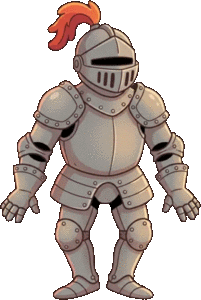
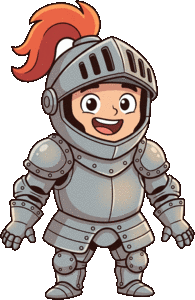
Chevaliers qui basculent dans les trous, nouveaux chevaliers à grosse tête, multi-touch
Claude-Session: https://claude.ai/code/session_01DKoyVzMQUoxeQY8Gx2oYmF

diff --git a/docs/index.html b/docs/index.html
@@ -89,6 +89,7 @@
   #hud button.tool { background: var(--panel-2); color: var(--fg); box-shadow: 0 3px 0 #1a1230; }
   #hud button.tool.on { background: var(--sky); color: #06243a; box-shadow: 0 3px 0 #2a7aa8; }
   #hud .spacer { flex: 1; }
+  #hud button { touch-action: none; }
   #btnOn { background: #4a4f56; color: #fff; box-shadow: 0 3px 0 #26292d; min-width: 120px; }
   #btnOn.on { background: #ffd24a; color: var(--accent-ink); box-shadow: 0 3px 0 #b57700; }
   #btnFilings.on { background: var(--sky); color: #06243a; }
@@ -509,7 +510,9 @@
         } else {
           b.vy += (G + ay) * dt;
           b.vx += ax * dt;
-          if (b.grounded) {
+          if (b.grounded && b.tip) {
+            b.vx += b.tip * 1400 * dt;                   // il bascule vers le vide
+          } else if (b.grounded) {
             const fr = Math.min(Math.abs(b.vx), 500 * dt);
             b.vx -= Math.sign(b.vx) * fr;
             if (Math.abs(ax) < 350 && Math.abs(b.vx) < 30) b.vx = 0;
@@ -671,6 +674,22 @@
         if (b.vy > 0) { b.y = s.y - b.h; b.grounded = true; if (!wasGrounded && vyBefore > 250) this.events.push({ type: 'land', id: b.id, v: vyBefore }); }
         else if (b.vy < 0) b.y = s.y + s.h;
         b.vy = 0;
+      }
+      // Bascule au bord d'un trou : si le centre n'est plus au-dessus d'un appui, le corps glisse et tombe
+      b.tip = 0; b.tilt = 0;
+      if (b.grounded) {
+        const bottom = b.y + b.h; let lo = Infinity, hi = -Infinity;
+        for (const s of this.solids) {
+          if (Math.abs(s.y - bottom) > 1.5) continue;
+          const a = Math.max(b.x, s.x), c = Math.min(b.x + b.w, s.x + s.w);
+          if (c > a) { lo = Math.min(lo, a); hi = Math.max(hi, c); }
+        }
+        const cx = b.x + b.w / 2, margin = b.w * 0.12;
+        if (lo < Infinity && (cx < lo + margin || cx > hi - margin)) {
+          b.tip = cx < lo + margin ? -1 : 1;
+          const over = b.tip > 0 ? cx - (hi - margin) : (lo + margin) - cx;
+          b.tilt = b.tip * Math.min(0.6, 0.15 + over / b.w);
+        }
       }
       // sol de secours
       if (b.y + b.h > H + 300) { b.hidden = true; }
@@ -1244,7 +1263,7 @@
   function initTitle() {
     $('#intro').innerHTML = INTRO.lines.map((l, i) => `<p style="animation-delay:${0.2 + i * 0.35}s">${fr(l)}</p>`).join('');
     $('#btnFull').onclick = toggleFullscreen;
-    $('#btnFullHud').onclick = toggleFullscreen;
+    tap($('#btnFullHud'), toggleFullscreen);
     $('#btnInstall').onclick = install;
     $('#iosHint').hidden = !(IOS && !STANDALONE && location.protocol === 'https:' && !/claude/.test(location.hostname));
     updateFullscreenButtons();
@@ -1383,7 +1402,7 @@
       world.tools.forEach((t, i) => {
         const b = document.createElement('button'); b.type = 'button'; b.className = 'tool' + (i === world.toolIndex ? ' on' : '');
         b.innerHTML = toolIcon(t.type) + `<span>${t.label}</span>`;
-        b.onclick = () => { takeControl(); world.selectTool(i); buildHud(); SFX.flip(); };
+        tap(b, () => { takeControl(); world.selectTool(i); buildHud(); SFX.flip(); });
         tools.appendChild(b);
       });
     }
@@ -1399,20 +1418,26 @@
     $('#gauge').hidden = !(t && (t.type === 'nail' || room.turnsNeeded));
     $('#btnShow').hidden = !(room.kind !== 'atelier' && hintCount >= 1);
   }
+  // Boutons du jeu : réagissent dès que le doigt se pose (pointerdown), même si un autre doigt tient déjà le bonhomme.
+  // Un tap tactile à deux doigts ne génère souvent pas de « click » : on ne s'appuie donc pas dessus.
+  function tap(el, fn) {
+    el.onpointerdown = (e) => { e.preventDefault(); e.stopPropagation(); unlockAudio(); fn(); };
+    el.onclick = (e) => { if (e.detail === 0) fn(); };   // clavier (Entrée / Espace) seulement
+  }
   function toolIcon(type) {
     if (type === 'bar') return '<i class="ico bar"></i>';
     if (type === 'double') return '<i class="ico bar"></i><i class="ico bar"></i>';
     if (type === 'horseshoe') return '<i class="ico hs"></i>';
     return '';
   }
-  $('#btnFlip').onclick = () => { takeControl(); world.flip(); buildHud(); SFX.flip(); pulseButton('#btnFlip'); };
-  $('#btnOn').onclick = () => { takeControl(); world.toggleElectro(); buildHud(); SFX.on(world.electroOn); pulseButton('#btnOn'); };
-  $('#btnTurn').onclick = () => { takeControl(); world.addTurn(); buildHud(); SFX.turn(world.turns); pulseButton('#btnTurn'); };
-  $('#btnFilings').onclick = () => { takeControl(); world.toggleFilings(); buildHud(); };
-  $('#btnRestart').onclick = () => { resetWorld(); buildHud(); if (room.kind === 'atelier') startDemo('loop'); };
-  $('#btnHint').onclick = () => { showHint(); hintCount++; buildHud(); };
-  $('#btnShow').onclick = () => { resetWorld(); buildHud(); startDemo('once'); };
-  $('#btnTower').onclick = () => { show('tower'); renderTower(); };
+  tap($('#btnFlip'), () => { takeControl(); world.flip(); buildHud(); SFX.flip(); pulseButton('#btnFlip'); });
+  tap($('#btnOn'), () => { takeControl(); world.toggleElectro(); buildHud(); SFX.on(world.electroOn); pulseButton('#btnOn'); });
+  tap($('#btnTurn'), () => { takeControl(); world.addTurn(); buildHud(); SFX.turn(world.turns); pulseButton('#btnTurn'); });
+  tap($('#btnFilings'), () => { takeControl(); world.toggleFilings(); buildHud(); });
+  tap($('#btnRestart'), () => { resetWorld(); buildHud(); if (room.kind === 'atelier') startDemo('loop'); });
+  tap($('#btnHint'), () => { showHint(); hintCount++; buildHud(); });
+  tap($('#btnShow'), () => { resetWorld(); buildHud(); startDemo('once'); });
+  tap($('#btnTower'), () => { show('tower'); renderTower(); });
   function showHint() { $('#hintText').textContent = fr(room.hint); $('#hint').hidden = false; hintUntil = performance.now() + 7000; }
   $('#hint').onclick = () => { $('#hint').hidden = true; };
   function pulseButton(sel) { const b = $(sel); b.classList.remove('pulse'); void b.offsetWidth; b.classList.add('pulse'); }
@@ -1442,7 +1467,14 @@
     if (!world) return;
     unlockAudio();
     if (demo) { takeControl(); }
-    if (world.won || activePointer !== null) return;
+    if (world.won) return;
+    if (activePointer !== null) {
+      // deuxième doigt pendant que le premier tient le bonhomme : il change l'état de l'aimant
+      const t = world.tool;
+      if (room.canFlip && t && t.poles) { world.flip(); buildHud(); SFX.flip(); pulseButton('#btnFlip'); }
+      else if (t && t.type === 'electro') { world.toggleElectro(); buildHud(); SFX.on(world.electroOn); pulseButton('#btnOn'); }
+      return;
+    }
     activePointer = e.pointerId; try { canvas.setPointerCapture(e.pointerId); } catch (err) { /* ignore */ }
     const raw = toLogical(e);
     // Le doigt se pose sur le bonhomme ; l'aimant est dans sa main, plus haut, bien visible.
@@ -1777,11 +1809,12 @@
     let sx = 1, sy = 1, rot = 0;
     if (f) { sx += f.sq * 0.3 + f.pop; sy -= f.sq * 0.3 - f.pop; }
     if (b.grounded && Math.abs(b.vx) > 60 && !b.rail) rot = Math.sin(time * 22) * 0.06 * Math.min(1, Math.abs(b.vx) / 250);
-    if (b.captured) rot = (b.y - 700) / 300;
+    if (b.tilt) rot = b.tilt;
+    if (b.captured) rot = (b.tilt || 0.3) + (b.y - 700) / 250;
     ctx.translate(cx, by); ctx.rotate(rot); ctx.scale(sx, sy); ctx.translate(-cx, -by);
     switch (b.kind) {
       case 'knight':
-        if (b.ko) drawImageFit(IMG.armure_tas, b); else drawImageFit(IMG.armure, { x: b.x - 10, y: b.y, w: b.w + 20, h: b.h });
+        if (b.ko) drawImageFit(IMG.armure_tas, { x: b.x - 10, y: b.y - 40, w: b.w + 20, h: b.h + 40 }); else drawImageFit(IMG.armure, { x: b.x - 16, y: b.y - 14, w: b.w + 32, h: b.h + 14 });
         if (b.pole && (!b.hiddenPole || world.filings)) drawPoleLabel(b);
         else if (b.pole) drawHiddenPole(b);
         if (f && f.stars > 0) { drawStars(cx, b.y - 20, time); f.stars -= 1 / 60; }

diff --git a/index.html b/index.html
@@ -90,6 +90,7 @@
   #hud button.tool { background: var(--panel-2); color: var(--fg); box-shadow: 0 3px 0 #1a1230; }
   #hud button.tool.on { background: var(--sky); color: #06243a; box-shadow: 0 3px 0 #2a7aa8; }
   #hud .spacer { flex: 1; }
+  #hud button { touch-action: none; }
   #btnOn { background: #4a4f56; color: #fff; box-shadow: 0 3px 0 #26292d; min-width: 120px; }
   #btnOn.on { background: #ffd24a; color: var(--accent-ink); box-shadow: 0 3px 0 #b57700; }
   #btnFilings.on { background: var(--sky); color: #06243a; }
@@ -510,7 +511,9 @@
         } else {
           b.vy += (G + ay) * dt;
           b.vx += ax * dt;
-          if (b.grounded) {
+          if (b.grounded && b.tip) {
+            b.vx += b.tip * 1400 * dt;                   // il bascule vers le vide
+          } else if (b.grounded) {
             const fr = Math.min(Math.abs(b.vx), 500 * dt);
             b.vx -= Math.sign(b.vx) * fr;
             if (Math.abs(ax) < 350 && Math.abs(b.vx) < 30) b.vx = 0;
@@ -672,6 +675,22 @@
         if (b.vy > 0) { b.y = s.y - b.h; b.grounded = true; if (!wasGrounded && vyBefore > 250) this.events.push({ type: 'land', id: b.id, v: vyBefore }); }
         else if (b.vy < 0) b.y = s.y + s.h;
         b.vy = 0;
+      }
+      // Bascule au bord d'un trou : si le centre n'est plus au-dessus d'un appui, le corps glisse et tombe
+      b.tip = 0; b.tilt = 0;
+      if (b.grounded) {
+        const bottom = b.y + b.h; let lo = Infinity, hi = -Infinity;
+        for (const s of this.solids) {
+          if (Math.abs(s.y - bottom) > 1.5) continue;
+          const a = Math.max(b.x, s.x), c = Math.min(b.x + b.w, s.x + s.w);
+          if (c > a) { lo = Math.min(lo, a); hi = Math.max(hi, c); }
+        }
+        const cx = b.x + b.w / 2, margin = b.w * 0.12;
+        if (lo < Infinity && (cx < lo + margin || cx > hi - margin)) {
+          b.tip = cx < lo + margin ? -1 : 1;
+          const over = b.tip > 0 ? cx - (hi - margin) : (lo + margin) - cx;
+          b.tilt = b.tip * Math.min(0.6, 0.15 + over / b.w);
+        }
       }
       // sol de secours
       if (b.y + b.h > H + 300) { b.hidden = true; }
@@ -1245,7 +1264,7 @@
   function initTitle() {
     $('#intro').innerHTML = INTRO.lines.map((l, i) => `<p style="animation-delay:${0.2 + i * 0.35}s">${fr(l)}</p>`).join('');
     $('#btnFull').onclick = toggleFullscreen;
-    $('#btnFullHud').onclick = toggleFullscreen;
+    tap($('#btnFullHud'), toggleFullscreen);
     $('#btnInstall').onclick = install;
     $('#iosHint').hidden = !(IOS && !STANDALONE && location.protocol === 'https:' && !/claude/.test(location.hostname));
     updateFullscreenButtons();
@@ -1384,7 +1403,7 @@
       world.tools.forEach((t, i) => {
         const b = document.createElement('button'); b.type = 'button'; b.className = 'tool' + (i === world.toolIndex ? ' on' : '');
         b.innerHTML = toolIcon(t.type) + `<span>${t.label}</span>`;
-        b.onclick = () => { takeControl(); world.selectTool(i); buildHud(); SFX.flip(); };
+        tap(b, () => { takeControl(); world.selectTool(i); buildHud(); SFX.flip(); });
         tools.appendChild(b);
       });
     }
@@ -1400,20 +1419,26 @@
     $('#gauge').hidden = !(t && (t.type === 'nail' || room.turnsNeeded));
     $('#btnShow').hidden = !(room.kind !== 'atelier' && hintCount >= 1);
   }
+  // Boutons du jeu : réagissent dès que le doigt se pose (pointerdown), même si un autre doigt tient déjà le bonhomme.
+  // Un tap tactile à deux doigts ne génère souvent pas de « click » : on ne s'appuie donc pas dessus.
+  function tap(el, fn) {
+    el.onpointerdown = (e) => { e.preventDefault(); e.stopPropagation(); unlockAudio(); fn(); };
+    el.onclick = (e) => { if (e.detail === 0) fn(); };   // clavier (Entrée / Espace) seulement
+  }
   function toolIcon(type) {
     if (type === 'bar') return '<i class="ico bar"></i>';
     if (type === 'double') return '<i class="ico bar"></i><i class="ico bar"></i>';
     if (type === 'horseshoe') return '<i class="ico hs"></i>';
     return '';
   }
-  $('#btnFlip').onclick = () => { takeControl(); world.flip(); buildHud(); SFX.flip(); pulseButton('#btnFlip'); };
-  $('#btnOn').onclick = () => { takeControl(); world.toggleElectro(); buildHud(); SFX.on(world.electroOn); pulseButton('#btnOn'); };
-  $('#btnTurn').onclick = () => { takeControl(); world.addTurn(); buildHud(); SFX.turn(world.turns); pulseButton('#btnTurn'); };
-  $('#btnFilings').onclick = () => { takeControl(); world.toggleFilings(); buildHud(); };
-  $('#btnRestart').onclick = () => { resetWorld(); buildHud(); if (room.kind === 'atelier') startDemo('loop'); };
-  $('#btnHint').onclick = () => { showHint(); hintCount++; buildHud(); };
-  $('#btnShow').onclick = () => { resetWorld(); buildHud(); startDemo('once'); };
-  $('#btnTower').onclick = () => { show('tower'); renderTower(); };
+  tap($('#btnFlip'), () => { takeControl(); world.flip(); buildHud(); SFX.flip(); pulseButton('#btnFlip'); });
+  tap($('#btnOn'), () => { takeControl(); world.toggleElectro(); buildHud(); SFX.on(world.electroOn); pulseButton('#btnOn'); });
+  tap($('#btnTurn'), () => { takeControl(); world.addTurn(); buildHud(); SFX.turn(world.turns); pulseButton('#btnTurn'); });
+  tap($('#btnFilings'), () => { takeControl(); world.toggleFilings(); buildHud(); });
+  tap($('#btnRestart'), () => { resetWorld(); buildHud(); if (room.kind === 'atelier') startDemo('loop'); });
+  tap($('#btnHint'), () => { showHint(); hintCount++; buildHud(); });
+  tap($('#btnShow'), () => { resetWorld(); buildHud(); startDemo('once'); });
+  tap($('#btnTower'), () => { show('tower'); renderTower(); });
   function showHint() { $('#hintText').textContent = fr(room.hint); $('#hint').hidden = false; hintUntil = performance.now() + 7000; }
   $('#hint').onclick = () => { $('#hint').hidden = true; };
   function pulseButton(sel) { const b = $(sel); b.classList.remove('pulse'); void b.offsetWidth; b.classList.add('pulse'); }
@@ -1443,7 +1468,14 @@
     if (!world) return;
     unlockAudio();
     if (demo) { takeControl(); }
-    if (world.won || activePointer !== null) return;
+    if (world.won) return;
+    if (activePointer !== null) {
+      // deuxième doigt pendant que le premier tient le bonhomme : il change l'état de l'aimant
+      const t = world.tool;
+      if (room.canFlip && t && t.poles) { world.flip(); buildHud(); SFX.flip(); pulseButton('#btnFlip'); }
+      else if (t && t.type === 'electro') { world.toggleElectro(); buildHud(); SFX.on(world.electroOn); pulseButton('#btnOn'); }
+      return;
+    }
     activePointer = e.pointerId; try { canvas.setPointerCapture(e.pointerId); } catch (err) { /* ignore */ }
     const raw = toLogical(e);
     // Le doigt se pose sur le bonhomme ; l'aimant est dans sa main, plus haut, bien visible.
@@ -1778,11 +1810,12 @@
     let sx = 1, sy = 1, rot = 0;
     if (f) { sx += f.sq * 0.3 + f.pop; sy -= f.sq * 0.3 - f.pop; }
     if (b.grounded && Math.abs(b.vx) > 60 && !b.rail) rot = Math.sin(time * 22) * 0.06 * Math.min(1, Math.abs(b.vx) / 250);
-    if (b.captured) rot = (b.y - 700) / 300;
+    if (b.tilt) rot = b.tilt;
+    if (b.captured) rot = (b.tilt || 0.3) + (b.y - 700) / 250;
     ctx.translate(cx, by); ctx.rotate(rot); ctx.scale(sx, sy); ctx.translate(-cx, -by);
     switch (b.kind) {
       case 'knight':
-        if (b.ko) drawImageFit(IMG.armure_tas, b); else drawImageFit(IMG.armure, { x: b.x - 10, y: b.y, w: b.w + 20, h: b.h });
+        if (b.ko) drawImageFit(IMG.armure_tas, { x: b.x - 10, y: b.y - 40, w: b.w + 20, h: b.h + 40 }); else drawImageFit(IMG.armure, { x: b.x - 16, y: b.y - 14, w: b.w + 32, h: b.h + 14 });
         if (b.pole && (!b.hiddenPole || world.filings)) drawPoleLabel(b);
         else if (b.pole) drawHiddenPole(b);
         if (f && f.stars > 0) { drawStars(cx, b.y - 20, time); f.stars -= 1 / 60; }

diff --git a/game.js b/game.js
@@ -136,7 +136,7 @@
   function initTitle() {
     $('#intro').innerHTML = INTRO.lines.map((l, i) => `<p style="animation-delay:${0.2 + i * 0.35}s">${fr(l)}</p>`).join('');
     $('#btnFull').onclick = toggleFullscreen;
-    $('#btnFullHud').onclick = toggleFullscreen;
+    tap($('#btnFullHud'), toggleFullscreen);
     $('#btnInstall').onclick = install;
     $('#iosHint').hidden = !(IOS && !STANDALONE && location.protocol === 'https:' && !/claude/.test(location.hostname));
     updateFullscreenButtons();
@@ -275,7 +275,7 @@
       world.tools.forEach((t, i) => {
         const b = document.createElement('button'); b.type = 'button'; b.className = 'tool' + (i === world.toolIndex ? ' on' : '');
         b.innerHTML = toolIcon(t.type) + `<span>${t.label}</span>`;
-        b.onclick = () => { takeControl(); world.selectTool(i); buildHud(); SFX.flip(); };
+        tap(b, () => { takeControl(); world.selectTool(i); buildHud(); SFX.flip(); });
         tools.appendChild(b);
       });
     }
@@ -291,20 +291,26 @@
     $('#gauge').hidden = !(t && (t.type === 'nail' || room.turnsNeeded));
     $('#btnShow').hidden = !(room.kind !== 'atelier' && hintCount >= 1);
   }
+  // Boutons du jeu : réagissent dès que le doigt se pose (pointerdown), même si un autre doigt tient déjà le bonhomme.
+  // Un tap tactile à deux doigts ne génère souvent pas de « click » : on ne s'appuie donc pas dessus.
+  function tap(el, fn) {
+    el.onpointerdown = (e) => { e.preventDefault(); e.stopPropagation(); unlockAudio(); fn(); };
+    el.onclick = (e) => { if (e.detail === 0) fn(); };   // clavier (Entrée / Espace) seulement
+  }
   function toolIcon(type) {
     if (type === 'bar') return '<i class="ico bar"></i>';
     if (type === 'double') return '<i class="ico bar"></i><i class="ico bar"></i>';
     if (type === 'horseshoe') return '<i class="ico hs"></i>';
     return '';
   }
-  $('#btnFlip').onclick = () => { takeControl(); world.flip(); buildHud(); SFX.flip(); pulseButton('#btnFlip'); };
-  $('#btnOn').onclick = () => { takeControl(); world.toggleElectro(); buildHud(); SFX.on(world.electroOn); pulseButton('#btnOn'); };
-  $('#btnTurn').onclick = () => { takeControl(); world.addTurn(); buildHud(); SFX.turn(world.turns); pulseButton('#btnTurn'); };
-  $('#btnFilings').onclick = () => { takeControl(); world.toggleFilings(); buildHud(); };
-  $('#btnRestart').onclick = () => { resetWorld(); buildHud(); if (room.kind === 'atelier') startDemo('loop'); };
-  $('#btnHint').onclick = () => { showHint(); hintCount++; buildHud(); };
-  $('#btnShow').onclick = () => { resetWorld(); buildHud(); startDemo('once'); };
-  $('#btnTower').onclick = () => { show('tower'); renderTower(); };
+  tap($('#btnFlip'), () => { takeControl(); world.flip(); buildHud(); SFX.flip(); pulseButton('#btnFlip'); });
+  tap($('#btnOn'), () => { takeControl(); world.toggleElectro(); buildHud(); SFX.on(world.electroOn); pulseButton('#btnOn'); });
+  tap($('#btnTurn'), () => { takeControl(); world.addTurn(); buildHud(); SFX.turn(world.turns); pulseButton('#btnTurn'); });
+  tap($('#btnFilings'), () => { takeControl(); world.toggleFilings(); buildHud(); });
+  tap($('#btnRestart'), () => { resetWorld(); buildHud(); if (room.kind === 'atelier') startDemo('loop'); });
+  tap($('#btnHint'), () => { showHint(); hintCount++; buildHud(); });
+  tap($('#btnShow'), () => { resetWorld(); buildHud(); startDemo('once'); });
+  tap($('#btnTower'), () => { show('tower'); renderTower(); });
   function showHint() { $('#hintText').textContent = fr(room.hint); $('#hint').hidden = false; hintUntil = performance.now() + 7000; }
   $('#hint').onclick = () => { $('#hint').hidden = true; };
   function pulseButton(sel) { const b = $(sel); b.classList.remove('pulse'); void b.offsetWidth; b.classList.add('pulse'); }
@@ -334,7 +340,14 @@
     if (!world) return;
     unlockAudio();
     if (demo) { takeControl(); }
-    if (world.won || activePointer !== null) return;
+    if (world.won) return;
+    if (activePointer !== null) {
+      // deuxième doigt pendant que le premier tient le bonhomme : il change l'état de l'aimant
+      const t = world.tool;
+      if (room.canFlip && t && t.poles) { world.flip(); buildHud(); SFX.flip(); pulseButton('#btnFlip'); }
+      else if (t && t.type === 'electro') { world.toggleElectro(); buildHud(); SFX.on(world.electroOn); pulseButton('#btnOn'); }
+      return;
+    }
     activePointer = e.pointerId; try { canvas.setPointerCapture(e.pointerId); } catch (err) { /* ignore */ }
     const raw = toLogical(e);
     // Le doigt se pose sur le bonhomme ; l'aimant est dans sa main, plus haut, bien visible.
@@ -669,11 +682,12 @@
     let sx = 1, sy = 1, rot = 0;
     if (f) { sx += f.sq * 0.3 + f.pop; sy -= f.sq * 0.3 - f.pop; }
     if (b.grounded && Math.abs(b.vx) > 60 && !b.rail) rot = Math.sin(time * 22) * 0.06 * Math.min(1, Math.abs(b.vx) / 250);
-    if (b.captured) rot = (b.y - 700) / 300;
+    if (b.tilt) rot = b.tilt;
+    if (b.captured) rot = (b.tilt || 0.3) + (b.y - 700) / 250;
     ctx.translate(cx, by); ctx.rotate(rot); ctx.scale(sx, sy); ctx.translate(-cx, -by);
     switch (b.kind) {
       case 'knight':
-        if (b.ko) drawImageFit(IMG.armure_tas, b); else drawImageFit(IMG.armure, { x: b.x - 10, y: b.y, w: b.w + 20, h: b.h });
+        if (b.ko) drawImageFit(IMG.armure_tas, { x: b.x - 10, y: b.y - 40, w: b.w + 20, h: b.h + 40 }); else drawImageFit(IMG.armure, { x: b.x - 16, y: b.y - 14, w: b.w + 32, h: b.h + 14 });
         if (b.pole && (!b.hiddenPole || world.filings)) drawPoleLabel(b);
         else if (b.pole) drawHiddenPole(b);
         if (f && f.stars > 0) { drawStars(cx, b.y - 20, time); f.stars -= 1 / 60; }

diff --git a/engine.js b/engine.js
@@ -319,7 +319,9 @@
         } else {
           b.vy += (G + ay) * dt;
           b.vx += ax * dt;
-          if (b.grounded) {
+          if (b.grounded && b.tip) {
+            b.vx += b.tip * 1400 * dt;                   // il bascule vers le vide
+          } else if (b.grounded) {
             const fr = Math.min(Math.abs(b.vx), 500 * dt);
             b.vx -= Math.sign(b.vx) * fr;
             if (Math.abs(ax) < 350 && Math.abs(b.vx) < 30) b.vx = 0;
@@ -481,6 +483,22 @@
         if (b.vy > 0) { b.y = s.y - b.h; b.grounded = true; if (!wasGrounded && vyBefore > 250) this.events.push({ type: 'land', id: b.id, v: vyBefore }); }
         else if (b.vy < 0) b.y = s.y + s.h;
         b.vy = 0;
+      }
+      // Bascule au bord d'un trou : si le centre n'est plus au-dessus d'un appui, le corps glisse et tombe
+      b.tip = 0; b.tilt = 0;
+      if (b.grounded) {
+        const bottom = b.y + b.h; let lo = Infinity, hi = -Infinity;
+        for (const s of this.solids) {
+          if (Math.abs(s.y - bottom) > 1.5) continue;
+          const a = Math.max(b.x, s.x), c = Math.min(b.x + b.w, s.x + s.w);
+          if (c > a) { lo = Math.min(lo, a); hi = Math.max(hi, c); }
+        }
+        const cx = b.x + b.w / 2, margin = b.w * 0.12;
+        if (lo < Infinity && (cx < lo + margin || cx > hi - margin)) {
+          b.tip = cx < lo + margin ? -1 : 1;
+          const over = b.tip > 0 ? cx - (hi - margin) : (lo + margin) - cx;
+          b.tilt = b.tip * Math.min(0.6, 0.15 + over / b.w);
+        }
       }
       // sol de secours
       if (b.y + b.h > H + 300) { b.hidden = true; }

diff --git a/docs/sw.js b/docs/sw.js
@@ -1,6 +1,6 @@
 /* Service worker : le jeu entier est mis en cache à l'installation, et joue hors ligne.
-   8e07936401 est remplacé à chaque build : nouveau cache, ancien supprimé. */
-const CACHE = 'tour-aimants-8e07936401';
+   47254868f9 est remplacé à chaque build : nouveau cache, ancien supprimé. */
+const CACHE = 'tour-aimants-47254868f9';
 const SHELL = [
   './', './index.html', './manifest.webmanifest',
   './icon-192.png', './icon-512.png', './icon-maskable-512.png', './apple-touch-icon.png', './favicon.png',

diff --git a/index.template.html b/index.template.html
@@ -90,6 +90,7 @@
   #hud button.tool { background: var(--panel-2); color: var(--fg); box-shadow: 0 3px 0 #1a1230; }
   #hud button.tool.on { background: var(--sky); color: #06243a; box-shadow: 0 3px 0 #2a7aa8; }
   #hud .spacer { flex: 1; }
+  #hud button { touch-action: none; }
   #btnOn { background: #4a4f56; color: #fff; box-shadow: 0 3px 0 #26292d; min-width: 120px; }
   #btnOn.on { background: #ffd24a; color: var(--accent-ink); box-shadow: 0 3px 0 #b57700; }
   #btnFilings.on { background: var(--sky); color: #06243a; }
